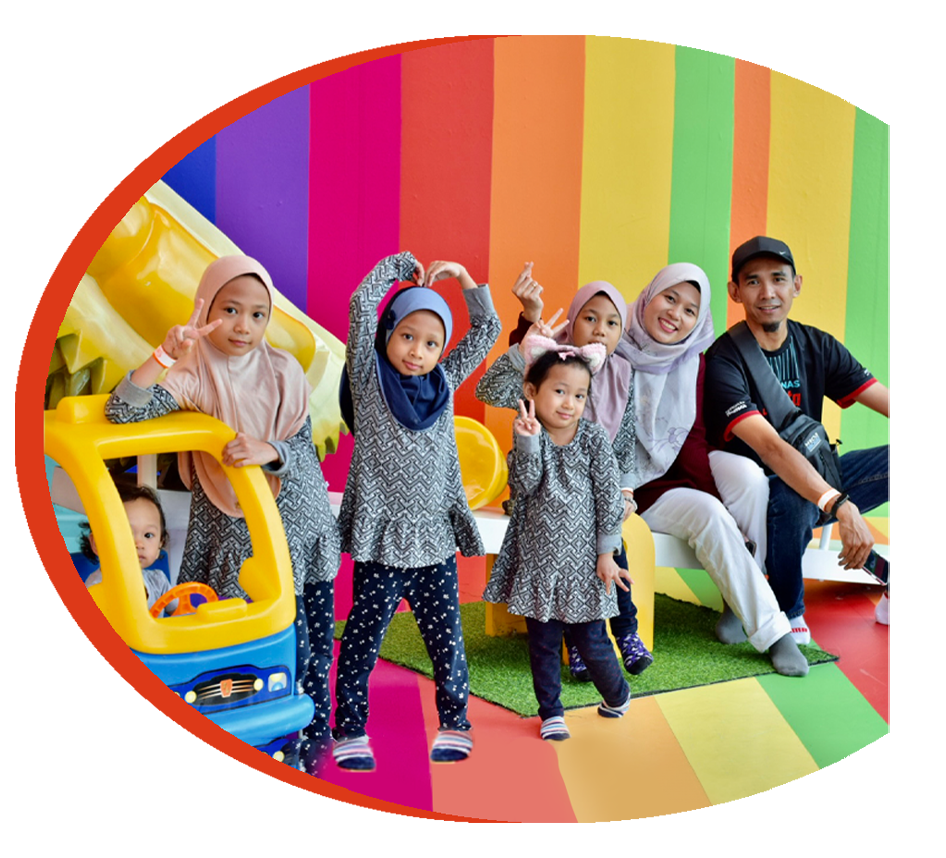
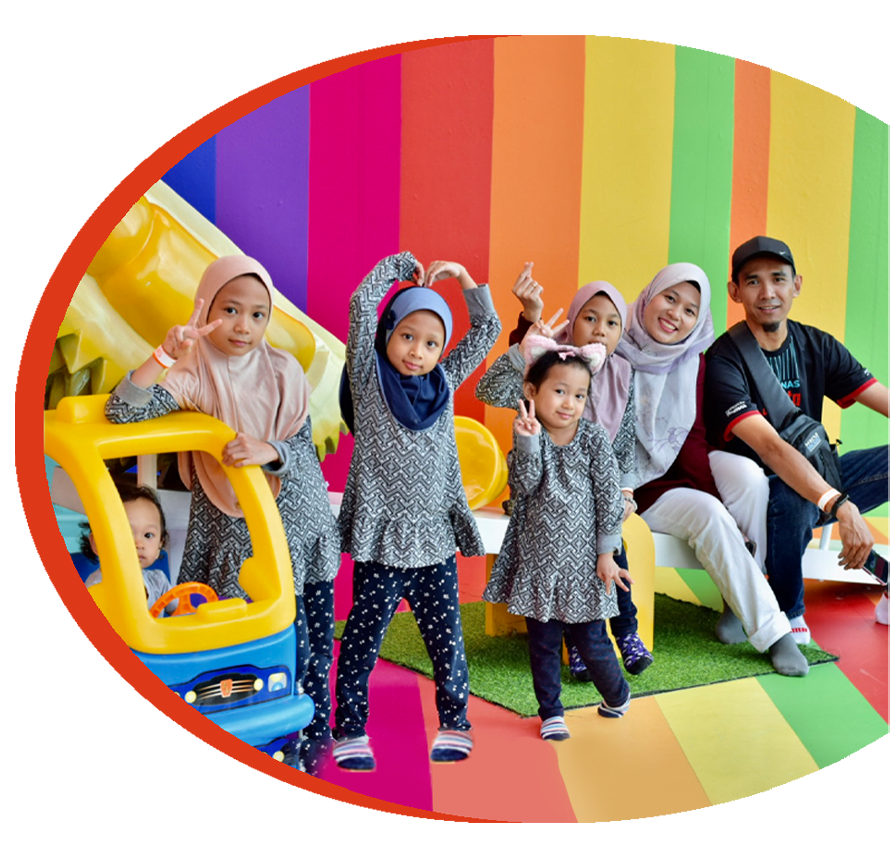
backup store

diff --git a/index.html b/index.html
@@ -51,6 +51,12 @@
         font-size: 10pt ;
     }
 
+    @media (max-width: 767px) {
+        .img-main-wsp {
+            top: 6rem;
+            left: 0px;
+        }
+    }
     @media screen and (max-width: 768px) {
         .buy-ticket {
             font-size: 8pt !important;
@@ -59,6 +65,13 @@
             display: none !important;
         }
     }
+
+    @media (max-width: 575px) {
+        .header-area.header-three .container {
+            bottom: 28px;
+        }
+    }
+
 
     @media screen and (max-width: 425px) {
         .buy-ticket {
@@ -73,6 +86,30 @@
             top: 100px !important;
         }
     }
+
+    .slider-content img {
+    width: 100%;
+    max-width: 600px; /* or whatever max size you prefer */
+}
+.mobile-floating-buttons {
+    position: fixed;
+    bottom: 0;
+    left: 0;
+    width: 100%;
+    display: flex;
+    z-index: 999;
+    box-shadow: 0 -2px 8px rgba(0, 0, 0, 0.1);
+    background: #fff;
+}
+
+.mobile-floating-buttons .btn {
+    border-radius: 0;
+    font-size: 14px;
+    padding: 10px 0;
+    text-align: center;
+}
+
+
 </style>
 <body>
     <!-- header -->
@@ -213,12 +250,8 @@
                                     <h5 data-animation="fadeInUp" data-delay=".4s">GRAND OPENING</h5>
                                     <h2 data-animation="fadeInUp" data-delay=".4s">RM18 SAHAJA?!?! WONDERPARK GO! IN DATARAN AUSTIN, KUALA TERENGGANU WITH ALL-NEW CATZANIA ZONE.</h2>
                                     <p data-animation="fadeInUp" data-delay=".6s">Stay turned in our <a href="https://www.facebook.com/wonderpark.my" target="_blank" style="color: inherit; text-decoration: none;">Facebook</a> for latest promo and details!</p>
-
-                                    <!-- <div class="slider-btn mt-30">
-                                        <a href="#contact" class="btn mr-15" data-animation="fadeInUp"
-                                            data-delay=".4s">Learn More</a>
-                                    </div> -->
-                                    <div class="row pt-1">
+                                    <!-- Desktop & Tablet View -->
+                                    <div class="row pt-1 d-none d-md-flex">
                                         <div class="col-lg-5 col-md-6 col-12 mb-2">
                                             <a href="https://shop.wonderpark.my/" class="btn btn-primary w-100 buy-ticket">
                                                 <i class="fa fa-shopping-cart" aria-hidden="true"></i>&nbsp;&nbsp;Buy Melaka <br/> Promo Tickets >
@@ -229,9 +262,18 @@
                                                 <i class="fa fa-shopping-cart" aria-hidden="true"></i>&nbsp;&nbsp;Buy Kuala Terengganu <br/> Promo Tickets >
                                             </a>
                                         </div>
-                                       
                                     </div>
-                                    
+
+                                    <!-- Mobile Floating Buttons -->
+                                    <div class="mobile-floating-buttons d-md-none">
+                                        <a href="https://shop.wonderpark.my/" class="btn btn-primary w-50">
+                                            <i class="fa fa-shopping-cart" aria-hidden="true"></i><br/>Melaka
+                                        </a>
+                                        <a href="https://shop2.wonderpark.my/e-tickets/wonderpark-kuala-terengganu" class="btn btn-primary w-50">
+                                            <i class="fa fa-shopping-cart" aria-hidden="true"></i><br/>Kuala Terengganu
+                                        </a>
+                                    </div>
+
                                 </div>
                             </div>
                             <div class="col-lg-6 col-md-6">
@@ -256,32 +298,37 @@
             </div>
             <div class="slider-active">
                 <div class="single-slider slider-bg d-flex align-items-center"
-                    style="background: url(img/slider/slider_img_bg.png) no-repeat; ">
-                    <div class="img-main" data-animation="fadeInLeft" data-delay=".2s"> <img src="img/slider/main.png"
-                            alt="slider-overlay"></div>
-                    <div class="container">
-                        <div class="row justify-content-center align-items-center">
-                            <div class="col-lg-6 col-md-6">
-                                <div class="slider-content s-slider-content pt-100">
+                    style="background: url(img/slider/slider_img_bg.png) no-repeat center center/cover;">
+                    <div class="container-fluid">
+                        <div class="row justify-content-end align-items-center g-0 flex-column-reverse flex-lg-row">
+                            <!-- Left Side - Text Content -->
+                            <div class="col-lg-4 col-md-6">
+                                <div class="slider-content s-slider-content pt-100 pr-4">
                                     <h5 data-animation="fadeInUp" data-delay=".4s">INDOOR FAMILY PARK</h5>
                                     <h2 data-animation="fadeInUp" data-delay=".4s">"PUAS-PUAS TANPA HAD!"</h2>
-                                    <p data-animation="fadeInUp" data-delay=".6s">Experience unlimited play, fun for all
-                                        age groups with just a single ticket in Melaka & Kuala Terengganu. Sungai Petani is opening soon!</p>
+                                    <p data-animation="fadeInUp" data-delay=".6s">
+                                        Experience unlimited play, fun for all age groups with just a single ticket in Melaka & Kuala Terengganu. 
+                                        Sungai Petani is opening soon!
+                                    </p>
                                     <div class="slider-btn mt-30">
-                                        <a href="#contact" class="btn mr-15" data-animation="fadeInUp"
-                                            data-delay=".4s">Learn More</a>
+                                        <a href="#contact" class="btn mr-15" data-animation="fadeInUp" data-delay=".4s">Learn More</a>
                                     </div>
-
                                 </div>
                             </div>
-                            <div class="col-lg-6 col-md-6">
-
+                        
+                            <!-- Right Side - Image -->
+                            <div class="col-lg-6 col-md-6 text-center">
+                                <img src="img/slider/main.png" alt="slider-overlay"
+                                    style="max-width: 100%; height: auto;" 
+                                    data-animation="fadeInLeft" data-delay=".2s">
                             </div>
                         </div>
+                        
                     </div>
                 </div>
-
             </div>
+            
+            
 
 
         </section>
@@ -1648,11 +1695,11 @@
     <!-- footer-end -->
 
     <!-- WhatsApp Button -->
-    <div class="go-top">
+    <!-- <div class="go-top">
         <a href="https://api.whatsapp.com/send?phone=60128996928&text=Hello%21%20May%20I%20inquire%20regarding%20the%20package%20offers%3F" class="float" target="_blank">
             <i class="fab fa-whatsapp" aria-hidden="true"></i>
         </a>
-    </div>
+    </div> -->
     <!-- WhatsApp Button Ends -->
 
     <!-- Tidio Live Chat -->
